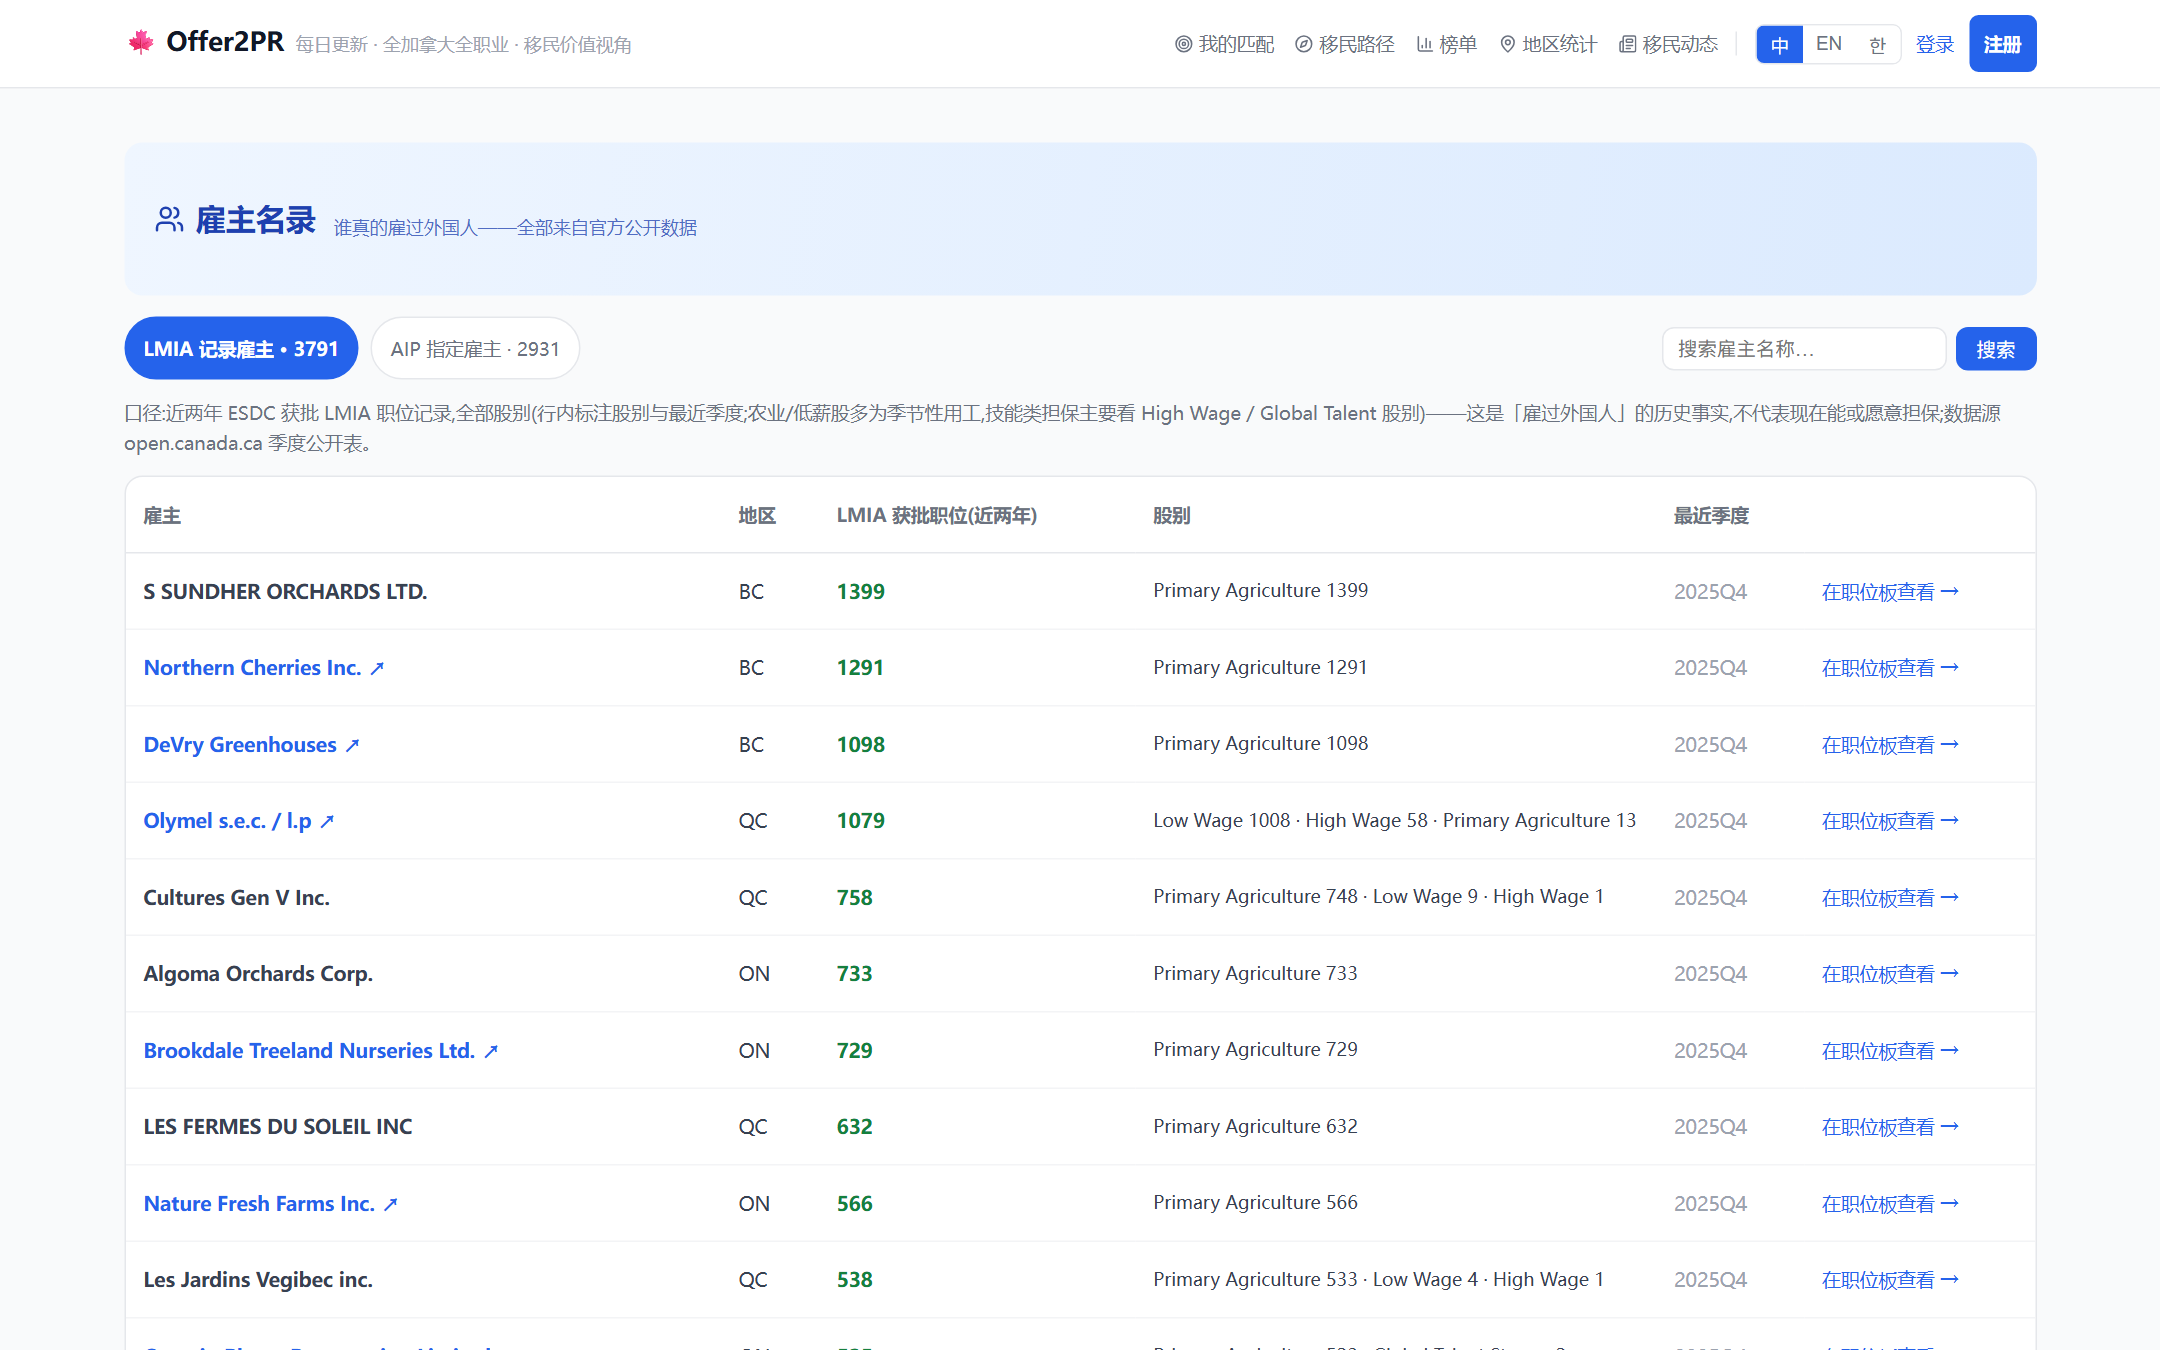
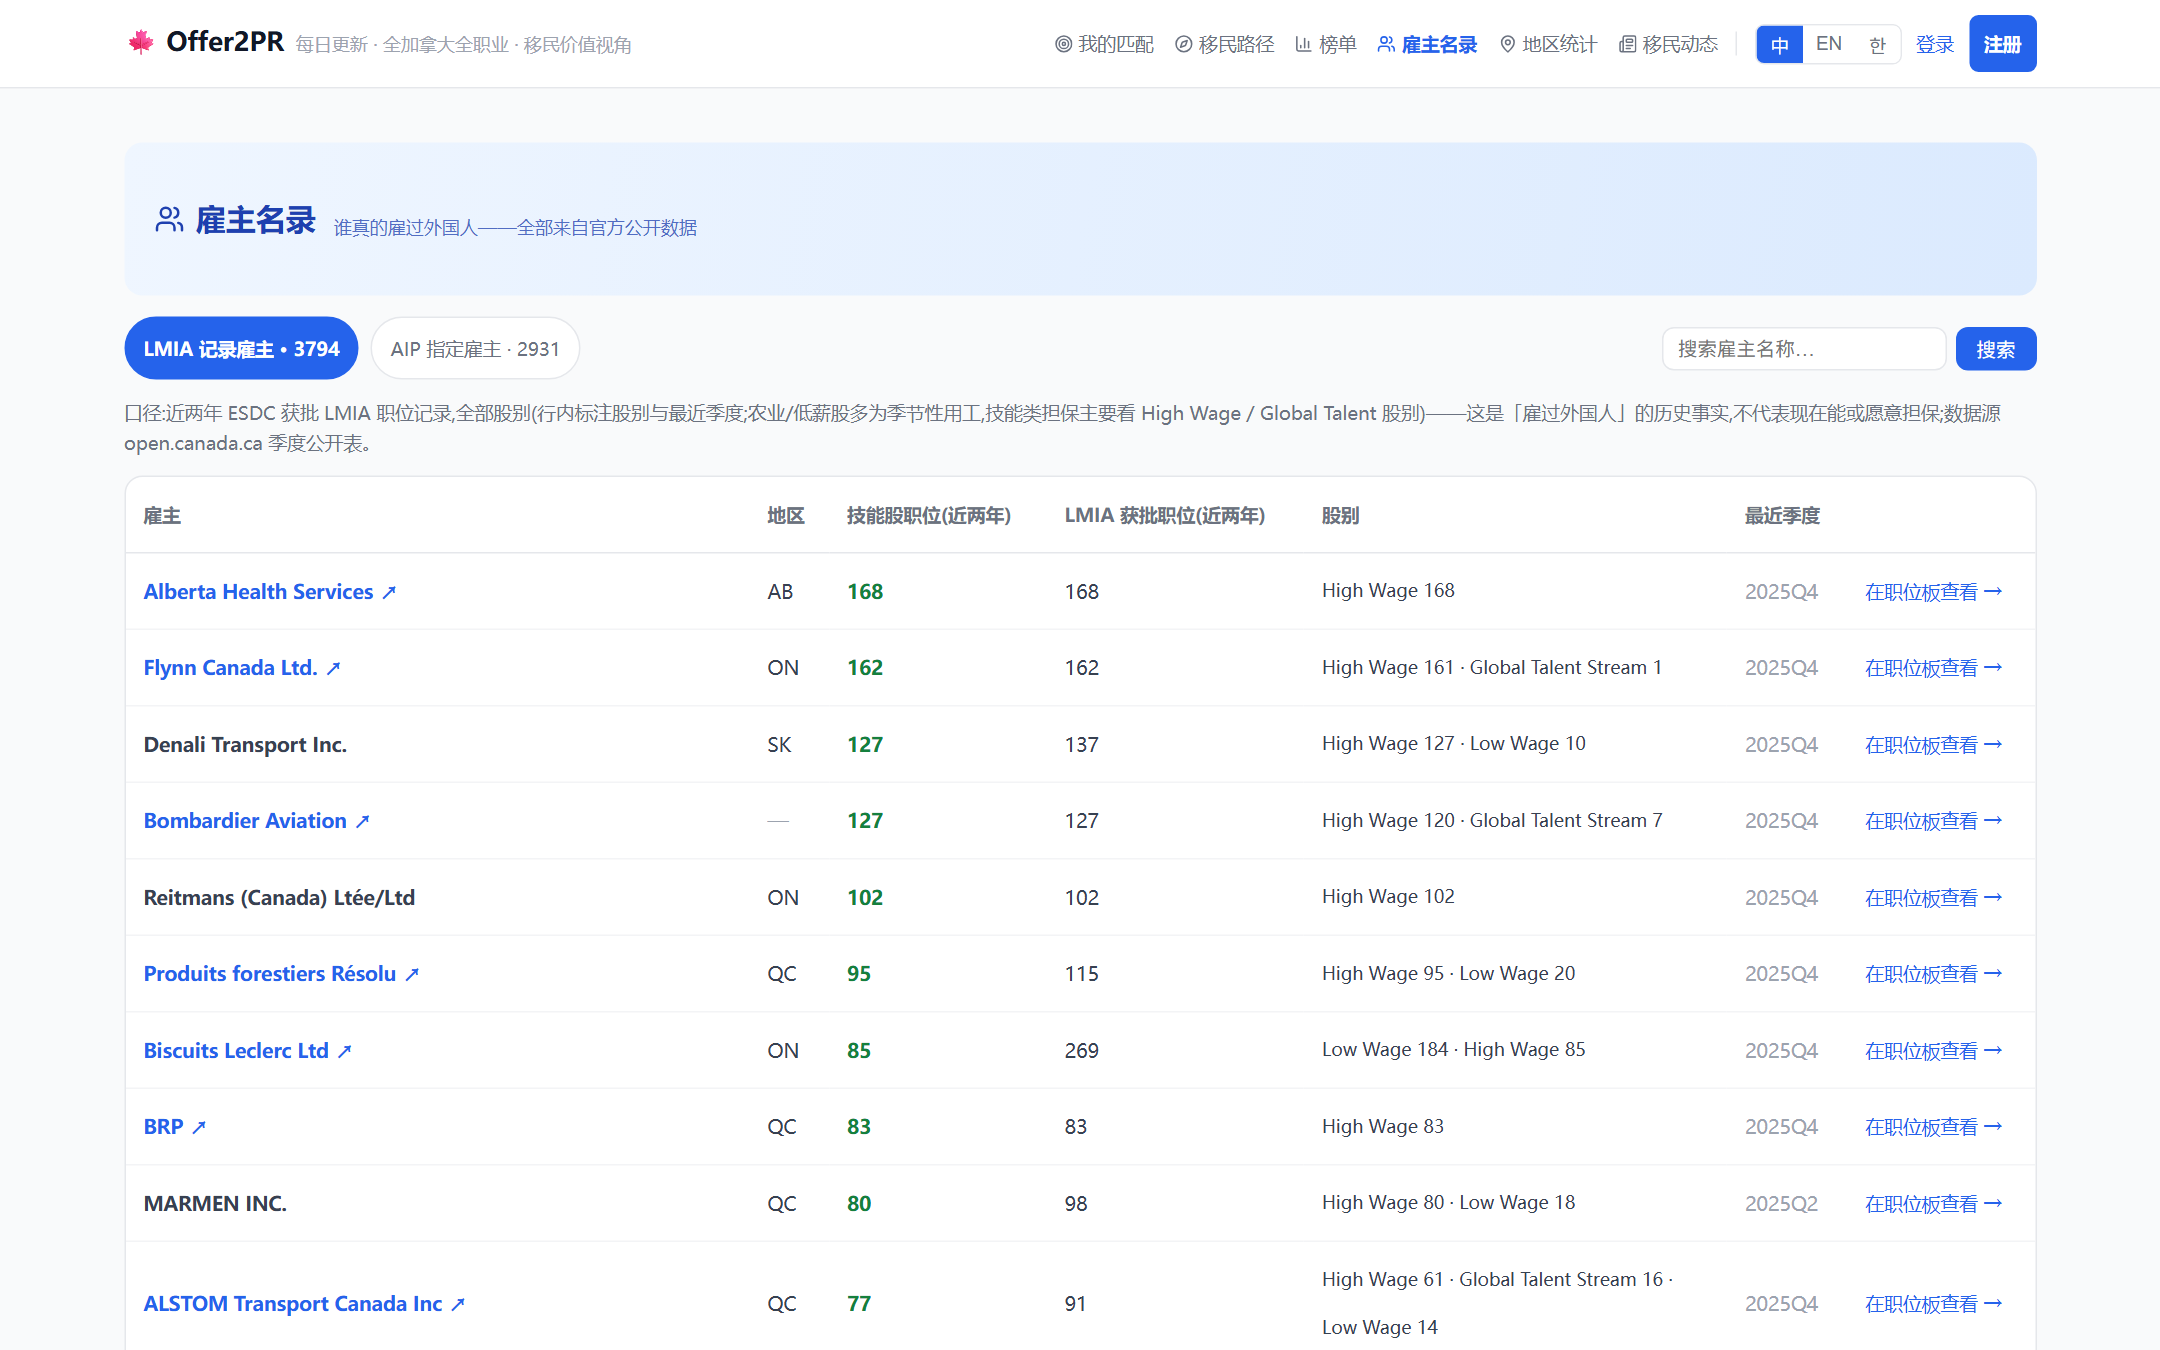
docs: 深夜四连收口记档——顶栏名录/搜索 0.2-0.4s(BitmapOr 实锤)/B4-02 股别分档生产终验全绿(果园沉底+match 中性行)/发帖人机分工改粘贴;验收图 B4-验收-果园match行 入库

diff --git a/STATUS.md b/STATUS.md
@@ -18,7 +18,8 @@
 > - **✅ #74-#76 三连闭环(2026-07-19,d76a410 生产复验)**:#74 升级框随 #64 换装(90 天钮「更划算·省 32%」徽标+两钮每天单价,PRICE 数学与 PricingCard 同源)/#75 匿名页头 ~85px 空带根修(recslot 占位纠正只看 recs.length 的漏洞——卡片拉空时 section 渲染 null 而占位不收;修=纳入实际可见卡数,生产双态实测拉空→0px/正常→横幅照常)/#76 四死镜头纳编捆绑截图脚本(元素截图)+news/news-detail 镜头补编,生产冒烟七镜头全命中。细节见工作台第 21 轮头注。
 > - **⚡ 工作法转向(2026-07-19 Frank 拍板)**:dd 截图走查停(「截图发现不了问题」);每件事先过「用户会为它付费吗」——分析文档 [队列付费复审-20260719](docs/队列付费复审-20260719.md)(判分标尺=痛点全量盘点 104 条/四级门槛/三本账)。重排:B4 提首位/C6 次之/#65 余批降级观感顺手活/GAP1③ JD 身份预筛建议插队(零抓取,需 Frank 跑 DDL)。
 > - **✅ B4-01 实体名录最小版当日闭环(181cbc2,生产 17 断言全绿)**:`/employers` 雇主名录(LMIA 记录 3,791+AIP 指定 2,931 两 tab,搜索/省筛/分页,行深链 /?q= 落职位板)+ `/occupations` 紧缺职业清单(183 行省→通道分组,行级官方链)。直击 C7 头号痛点的免费 browse 面+SEO 引流(sitemap 已收录,发帖开闸前流量有处落);**口径纠偏记档**:lmia_positions 含全部股别(榜首=BC 果园农业股 1399),口径注按实况写「全部股别+技能类看 High Wage/GTS」;入口=页脚+SEO(顶栏给位=Frank 拍板项)。验收图 mockups/B4-验收-*.png;实现文档 implementation/B4-实体名录/01。
-> - **下轮队列(付费透镜重排后)**:C6 政策时间线(数据 90% 在库,带「流内抽选间隔」个人化钩)→ GAP1③ JD 身份预筛(代码备好+DDL 清单交 Frank)→ E11-07 简历上传立项;#65 余批降级顺手;发帖开闸(Frank,/employers=新增卖点)。
+> - **深夜续(Frank 在线连环拍板/报障,四件当夜全闭环)**:①**雇主名录进顶栏第 7 项**(140f177,Frank「header 没地方点」);②**搜索 7-8 秒→0.2-0.4 秒**(d33f26f+aa3b501+DDL):根因=7 列 ILIKE OR 含跨表 c.name 全表扫;第一刀谓词重构不够(EXPLAIN 实锤 IN 子查询计划期不可索引),第二刀=公司 id 预查进 `= ANY(数组)`→BitmapOr 六分支全走索引,count 1198ms→0.96ms;**pg_trgm 扩展+7 索引 DDL Frank 授权代跑**;③**B4-02 LMIA 按股别分档**(76703c2+a0048ef,Frank「有 LMIA 但没法移民」):果园 1399 农业股岗原照拿 match +5 绿勾——mart 已算的 lmiaPositionsSkilled 入库(DDL 加列+seed 白名单),match 规则 6 三档(技能股>0 才 +5/纯农业低薪股中性行不加分/null 回退),名录加技能股列+排序改技能股优先(生产终验:AHS 168/Flynn 162 居首果园沉底,果园 match 行=中性文案);**补丁教训:三处手拼 MatchJob 都要补新字段**(makeMatcher/fetchMatchPage/客户端 MeansForMe,漏一处=静默回退);④**冷启动弹药刷新**(e13a06a):数字实测 32,970/723/3,793+雇主名录直链进四渠道文案+1p3a 回帖救活稿。**发帖代驾受权限分类器拦(发帖内容代填被拒)——改人机分工:内容成稿在冷启动帖子.md,Frank 粘贴发布**;1p3a 登录态活/小红书已登录待发。**雇主中文名拍板记档:不翻**(法定英文名=核验链,机翻毁信任;知名雇主人工别名小清单=候选缓做)。
+> - **下轮队列(付费透镜重排后)**:C6 政策时间线(数据 90% 在库,带「流内抽选间隔」个人化钩)→ GAP1③ JD 身份预筛(代码备好+DDL 清单交 Frank)→ E11-07 简历上传立项;多雇主对比(shortlist)=Pro 候选记档;#65 余批降级顺手;发帖(Frank 粘贴,弹药已刷新)。
 >
 > **⚡⚡⚡⚡ 上轮交接(2026-07-18 通宵 session,「移民动态之夜」)——E12-06 全环闭合 + #65 设计系统第一批,细节见 implementation/E12/06 §10(续①~⑦)与记忆 next-session-status**
 > - **E12-06 移民动态板块 P0→P1f 一夜全清**:/news 头版式布局(1大+4小头条网格,8省+联邦 **Wikimedia 真实地标头图**)+AI 重要度徽标(5分红「重要」)+**三语实时懒翻译/速读**(朋友的 qwen 服务 ngrok+key,编号对位协议保段对段对齐,DB 缓存全站共享,API 费归零)+**评论区**(登录可评→Frank admin 审核 approved 公开)+统一返回钮/评论数脚标。四次 DDL 全 Frank 亲跑(news 表/excerpt+重要度/comments+韩语列/summary_en)。**新防线两道**:seed 对 news 改 slug upsert(懒缓存列不清——每小时抹缓存 bug 实撞断根)/schema 容错查询(缺列自动降级——**10 分钟 404 事故**教训:改列代码 push 前必须实查 information_schema 列已落位)。

diff --git a/docs/implementation/B4-实体名录/01_雇主名录与清单页.md b/docs/implementation/B4-实体名录/01_雇主名录与清单页.md
@@ -56,3 +56,6 @@
 - 2026-07-19 立项(付费复审后队列第一位);当日实施,本地 17 断言全绿。
 - **口径纠偏(实施中发现)**:companies.lmia_positions 含**全部股别**(榜首=BC 果园 Primary Agriculture 1399,农业/低薪股占大头)——首版口径注写「技能股」不实,已改为「全部股别+读法指引(技能类担保看 High Wage/GTS 股别)」三语;技能股专属排序=sponsor-likely 榜单(lmia_positions_skilled 未入 companies 表,如名录要按技能股排序需 seed 补列+DDL,留二期与 LMIA 全量名录一并评估)。
 - LMIA 表「市」列改「地区」(region 值对 jobbank 系公司=省码、ATS 系=区域串,标「市」不实)。
+- **当夜续(B4-02,Frank「有 LMIA 但没法移民」)**:「按技能股排序留二期」提前兑现——lmia_positions_skilled 入库(DDL+seed),名录加「技能股职位」列+默认排序改技能股优先(生产终验:AHS 168/Flynn 162/Denali 127 居首,农业股果园沉底);match 规则 6 同步分档(技能股 +5/纯农业低薪股中性不加分),验收图 mockups/B4-验收-果园match行.png。二期仅剩 LMIA 全量 7.5 万雇主名录。
+- 顶栏第 7 项「雇主名录」补位(140f177,Frank「header 没地方点」);入口=顶栏+页脚+SEO 三路。
+- 搜索深链 7-8s 报障连带修复(pg_trgm+ANY 数组重构,0.2-0.4s,详见 STATUS/commit aa3b501)。